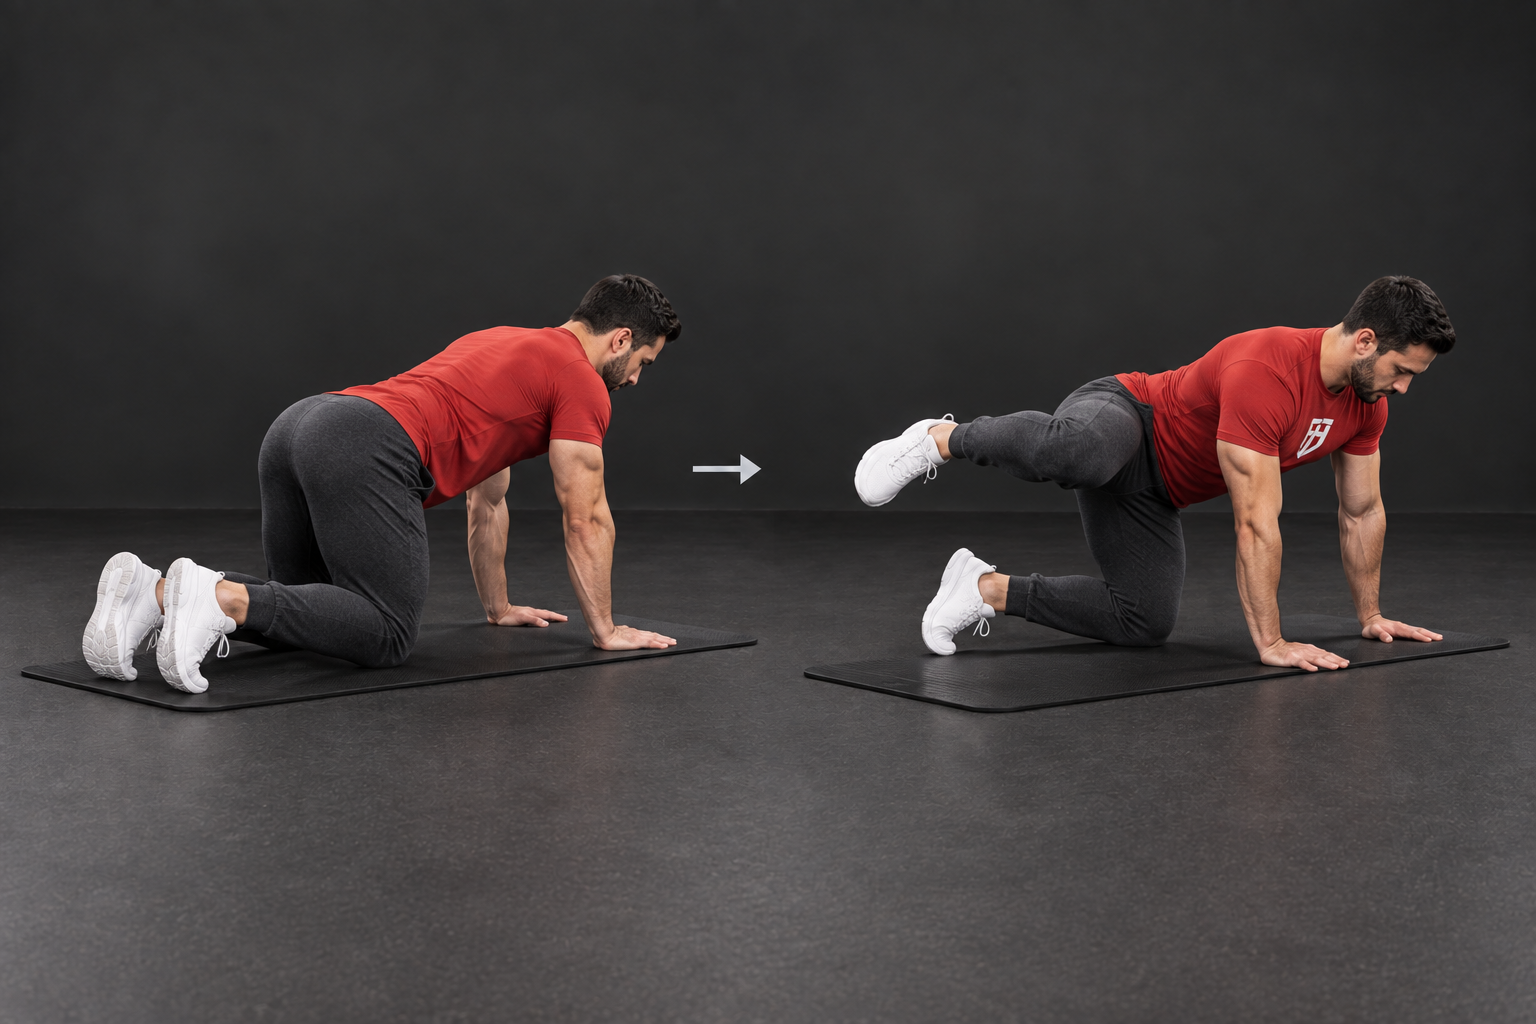
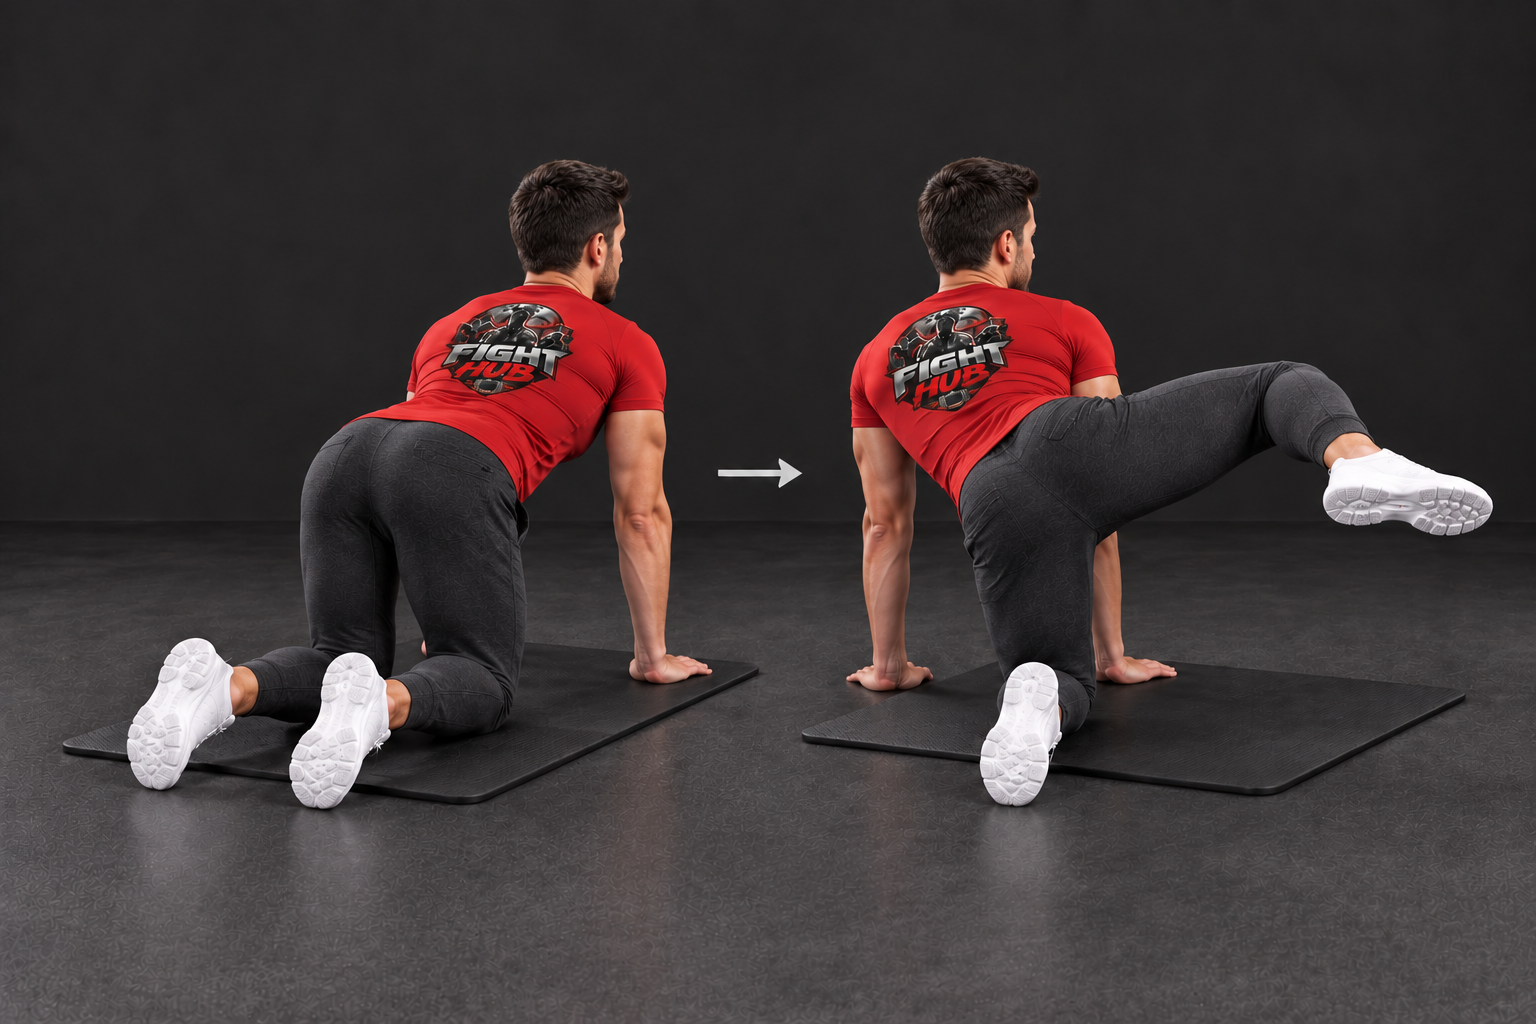
Regenerate seven requested exercise corrections and brand chamber hold

Changed region(s): [[0.0, 0.1562, 0.9688, 0.9375], [0.4375, 0.7812, 0.5625, 0.9688]]

diff --git a/image-requests/REPLACEMENTS-2026-10-03.md b/image-requests/REPLACEMENTS-2026-10-03.md
@@ -1,0 +1,20 @@
+# Replacement batch — 3 October 2026
+
+Built-in image generation. Exact PNG names saved into `drop-here`; failed intermediate candidates were not substituted. New candidates await user review, not blanket approval.
+
+| File | Prompt/correction applied |
+|---|---|
+| barbell-bench.png | Normal reach, visibly separated hands on opposite sides of bar, plates at both ends. |
+| bench-press-f.png | Exactly two distinct dumbbells, one per hand, in both phases. |
+| leg-curl-f.png | Female reference plus male leg-curl source; first/last source poses with both legs extended then curled under seat. |
+| fire-hydrant.png | Male identity with approved female fire-hydrant poses; knee lifted sideways, bent 90 degrees. |
+| frog-pump.png | Supine frog-position hip lift, soles together, knees wide, head/shoulders grounded. |
+| frog-pump-f.png | Same supine frog-pump correction with approved female reference. |
+| back-extension.png | Both scenes face left; lowered torso then neutral raised position. |
+| chamber-hold-f.png | Add reference Fight Hub emblem while preserving movement. |
+
+All seven currently listed REDO replacements now have fresh candidates. The five supposedly missing women's files already existed: clinch-knees-f, elbows-f, high-kick-f, chamber-hold-f, front-kick-f. They were inspected at full size; chamber-hold branding was corrected. Therefore zero of those five require initial generation.
+
+App conversion/integration is left for Claude, as permitted in the original request. No app code or WebP files changed in this batch. Review these PNGs before integration, particularly machine contact and torso alignment.
+
+The older ANATOMY-AUDIT concerns are not silently marked resolved: bridge-roll-f, switch-kick-f, running sequence continuity, male Granby and chest-stretch clarity remain review items. The newer REDO.md asks not to remake unlisted assets; this batch follows its explicit replacement list.
